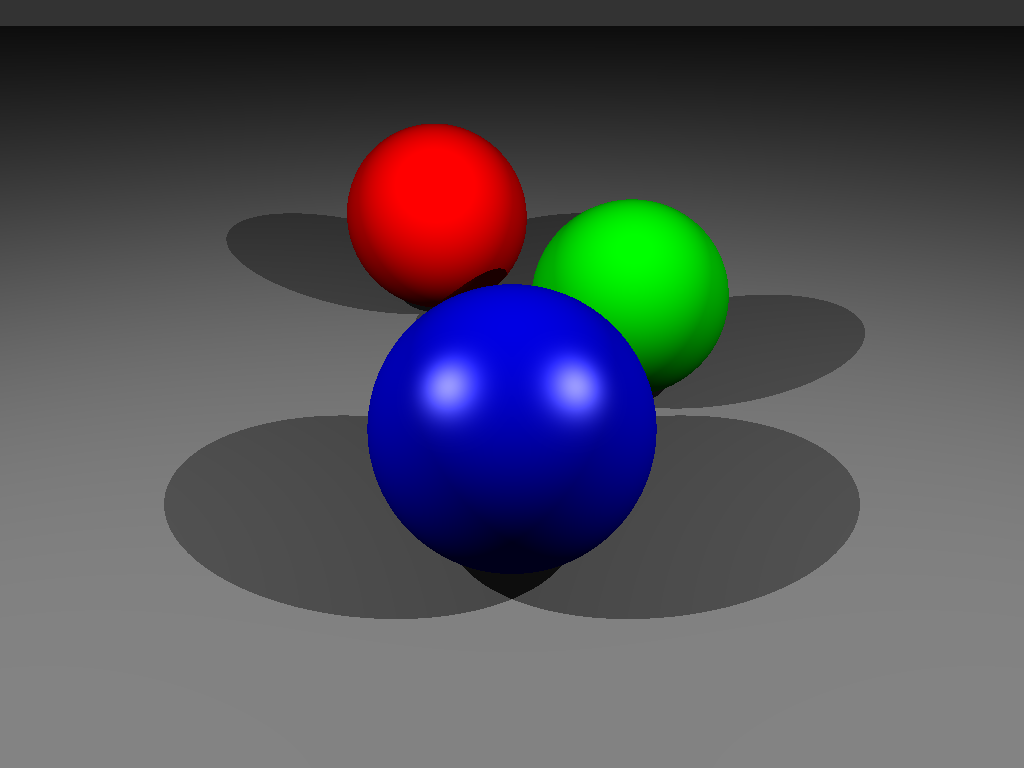
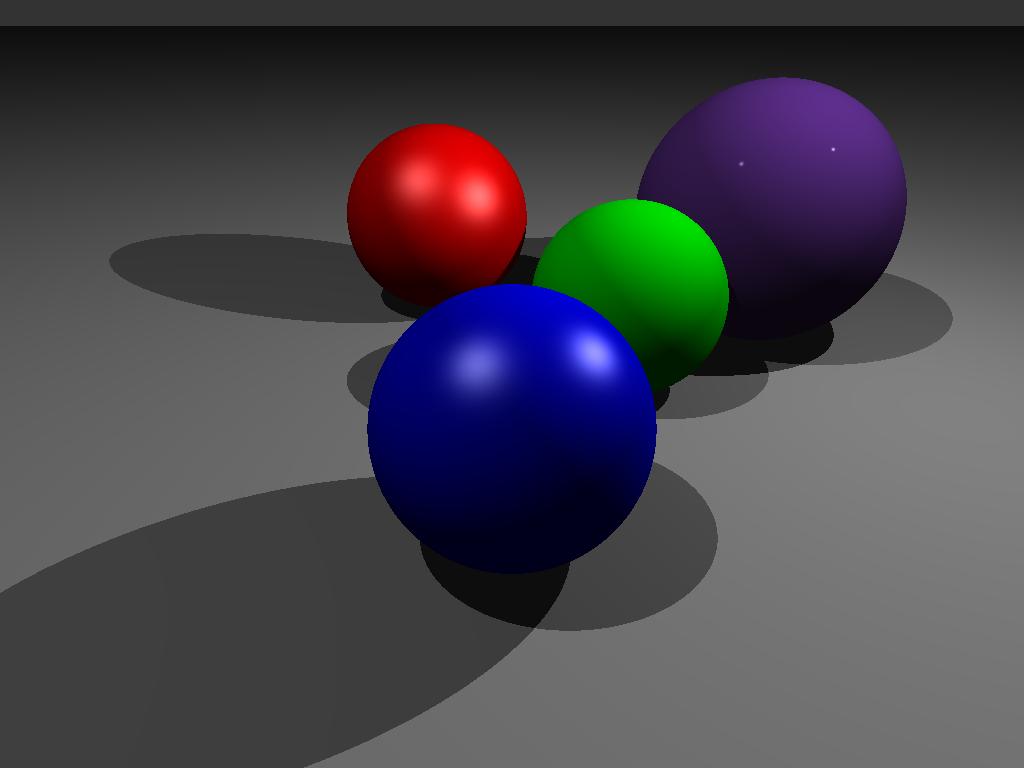
scene and all

diff --git a/src/main.rs b/src/main.rs
@@ -27,38 +27,58 @@ fn main() {
 
     //creating the scene based on our background
     let mut scenes = Scene::new(background, Vec3::splat(0.1));
+    let mut scene2 = Scene::new(background, Vec3::splat(0.2));
+    let mut scene3 = Scene::new(background, Vec3::splat(0.5));
     
     //creating the light or lights that will be used in the image
-    scenes.add_lights(Light::new(Vec3::new(5.0, 6.0, 2.0), Vec3::splat(0.6)));
-    scenes.add_lights(Light::new(Vec3::new(-5.0, 6.0, 2.0), Vec3::splat(0.6)));
+    let light1 = Light::new(Vec3::new(5.0, 5.0, -2.0), Vec3::splat(0.6));
+    let light2 = Light::new(Vec3::new(-5.0, 13.0, 2.0), Vec3::splat(0.4));
+    let light3 = Light::new(Vec3::new(2.5, 8.0, 3.0), Vec3::splat(0.5));
+
+    scenes.add_lights(light1);
+    scenes.add_lights(light2);
+
+    scene2.add(light3);
+    scene2.add(light1);
+
+    scene3.add(light2);
+    scene3.add(light3);
+
+
     //making the spherers that will be used in the image
 
     //setting the vlaues for the new sphers
     let tran1 = Transform::new(Vec3::new(-1.0, 1.2, -5.0), Quat::IDENTITY, Vec3::splat(1.2));
     let tran2 = Transform::new(Vec3::new(1.2, 1.0, -2.5), Quat::IDENTITY, Vec3::splat(1.0));
     let tran3 = Transform::new(Vec3::new(0.0,1.0,0.0), Quat::IDENTITY, Vec3::splat(1.0));
-    let mat1 = Material::lambert(Vec3::new(1.0, 0.0, 0.0));
-    let mat2 = Material::lambert(Vec3::new(0.0, 1.0, 0.0));
+    let tran5 = Transform::new(Vec3::new(3.0, 1.5, -4.0), Quat::IDENTITY, Vec3::splat(1.5));
+    let mat1 = Material::new(Vec3::new(1.0, 0.0, 0.0), Vec3::splat(0.8), 30.0);
+    let mat2 = Material::new(Vec3::new(0.0, 1.0, 0.0), Vec3::ZERO, 1.0);
     let mat3 = Material::new(Vec3::new(0.0, 0.0, 1.0), Vec3::ONE, 50.0);
+    let mat5 = Material::new(Vec3::new(0.4, 0.2, 0.6), Vec3::ONE, 10000.0);
 
-    scenes.add(Sphere::new(tran1, mat1));
-    scenes.add(Sphere::new(tran2, mat2));
-    scenes.add(Sphere::new(tran3, mat3));
+    scenes.add(Sphere::new(tran1, mat1)); //red sphere
+    scenes.add(Sphere::new(tran2, mat2)); //green sphere
+    scenes.add(Sphere::new(tran3, mat3)); //blue sphere
+    scenes.add(Sphere::new(tran5, mat5)); //purple sphere
+
 
     //creating the floor plane
     let tran4 = Transform::new(Vec3::new(0.0, 0.0, 0.0), Quat::IDENTITY, Vec3::splat(3.0));
     let mat4 = Material::lambert(Vec3::new(0.5, 0.5, 0.5));
     scenes.add(Plane::new(tran4, mat4));
+    scene2.add(Plane::new(tran4, mat4));
+    scene3.add(Plane::new(tran4, mat4));
 
     //creating the film 
     let mut film = Film::new(1024, 768);
 
     //different camera angles to view the spheres from 
-    let cam = Camera::new(Vec3::new(0.0, 1.0, 6.0), Vec3::new(0.0, 0.0, -2.5), Vec3::Y, 
+    let cam = Camera::new(Vec3::new(0.0, 3.5, -6.0), Vec3::new(0.0, 0.0, -2.5), Vec3::Y, 
     60.0, film.aspect());
     let cam1 = Camera::new(Vec3::new(0.0, 3.5, 4.0), Vec3::new(0.0, 0.0, -2.5), Vec3::Y, 
     60.0, film.aspect());
-    let cam2 = Camera::new(Vec3::new(9.0, 1.0, 2.0), Vec3::new(0.0, 0.0, -2.5), Vec3::Y, 
+    let cam2 = Camera::new(Vec3::new(9.0, 3.0, 2.0), Vec3::new(0.0, 0.0, -2.5), Vec3::Y, 
     60.0, film.aspect());
 
     //render the images, showing all the hits and ray intersects

diff --git a/src/sphere.rs b/src/sphere.rs
@@ -5,8 +5,8 @@ use crate::material::Material;
 
 pub struct Sphere{
 
-    transform: Transform, 
-    mat:       Material, 
+    mut transform: Transform, 
+    mut mat:       Material, 
 
 
 }
@@ -16,6 +16,16 @@ impl Sphere{
     pub fn new(transform: Transform, mat: Material) -> Self{
 
         Self{transform, mat}
+    }
+
+    fn update_trans(transform: Transform) -> Self {
+
+        Self{transform, mat: &self.mat}
+    }
+
+    fn update_mat(mat: Material) -> Self{
+
+        Self{transform: &self.transform, mat}
     }
 }
 
@@ -44,6 +54,8 @@ impl Shape for Sphere{
 
         Some(Hit {t, p, n: (p - cent) / rad, mat:&self.mat})
     }
+
+    
 }
 
 #[cfg(test)]

diff --git a/src/transform.rs b/src/transform.rs
@@ -17,4 +17,6 @@ impl Transform{
 
     }
 
+    
+
 }
